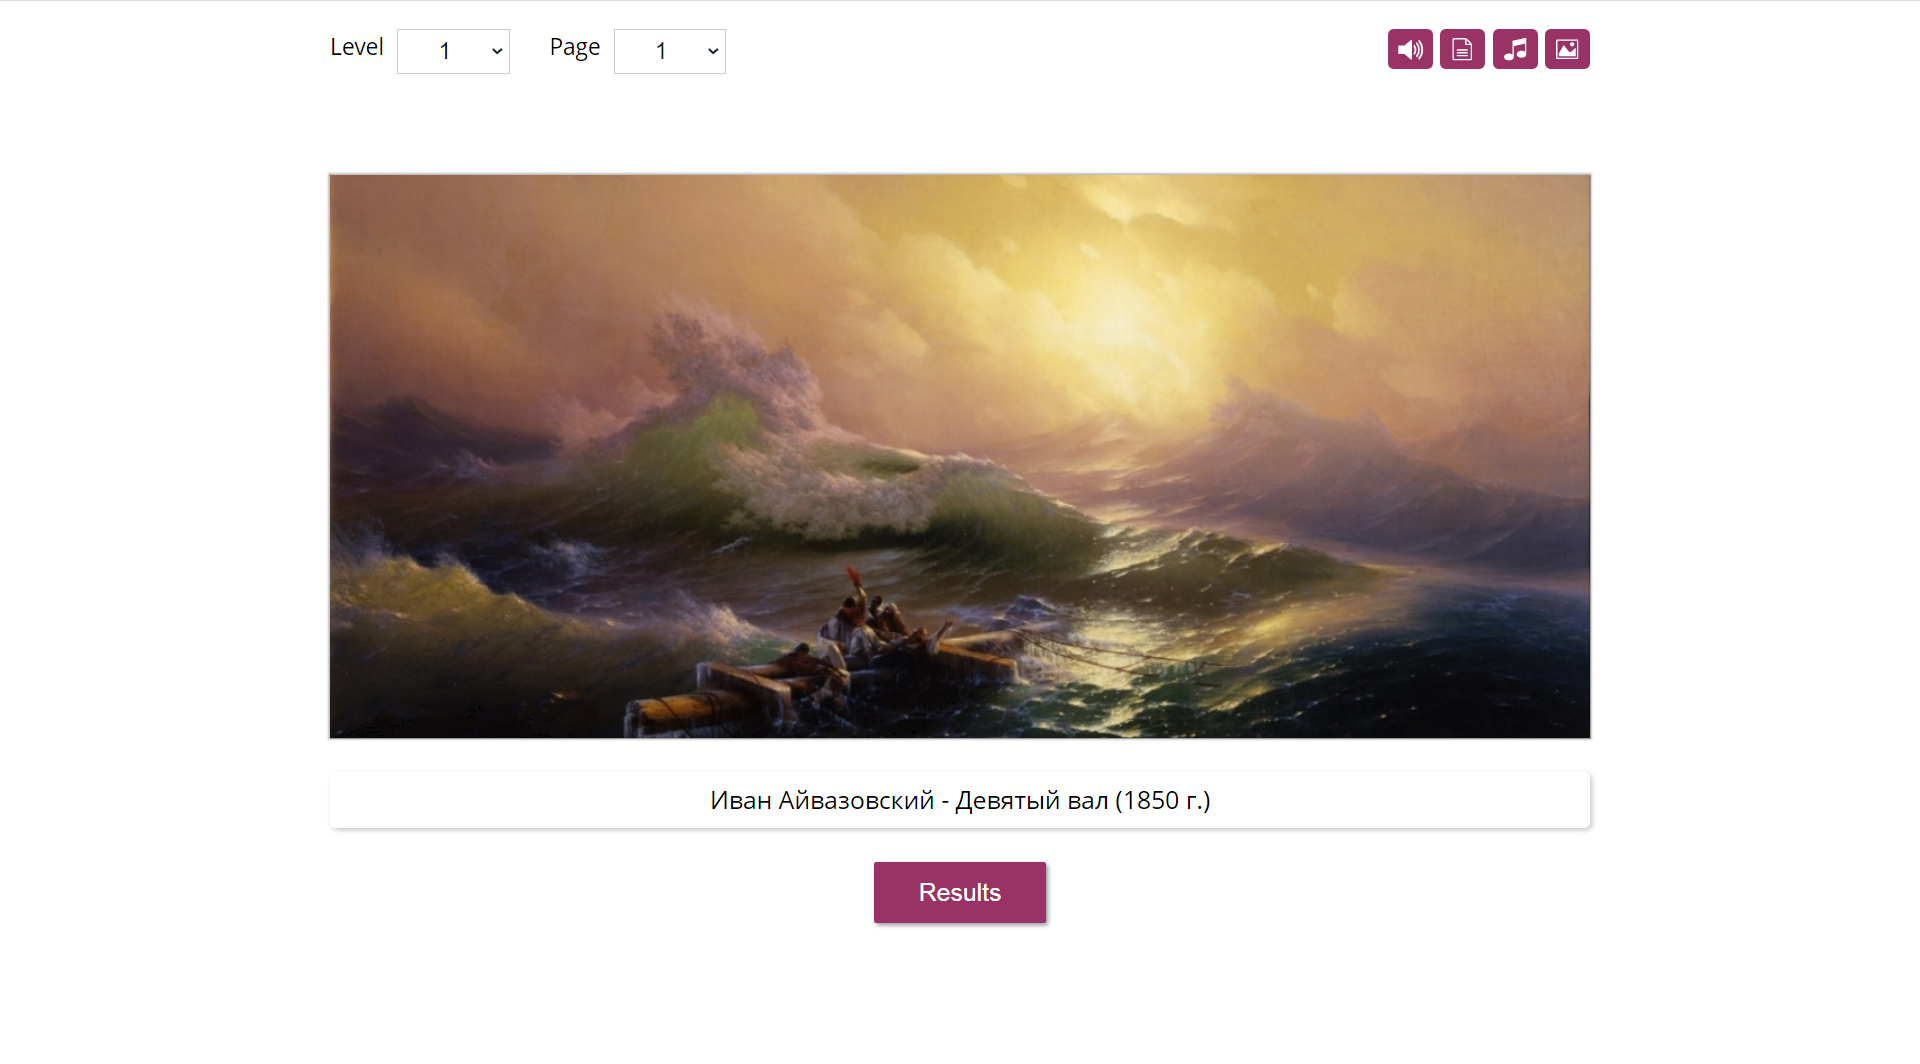
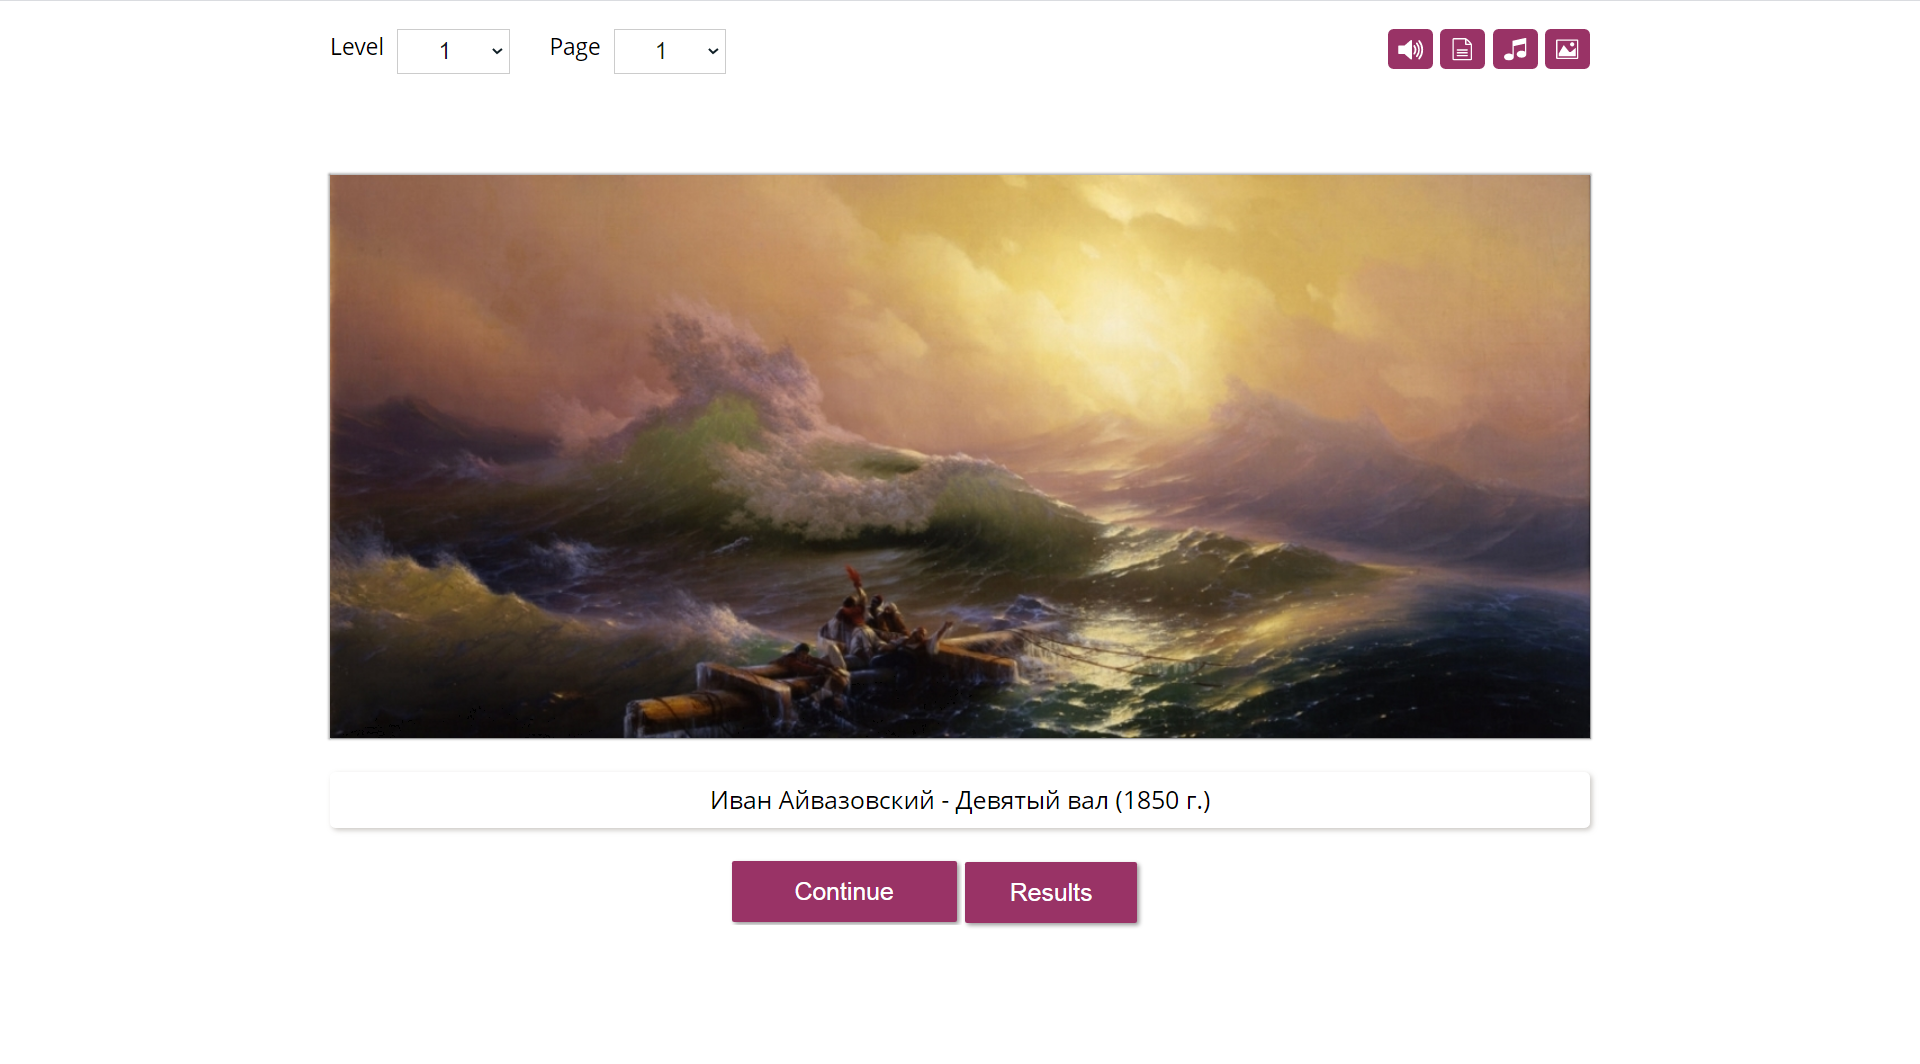
feat: add minor edits

Changed region(s): [[0.375, 0.8064, 0.5938, 0.8684]]

diff --git a/tasks/rslang/english-puzzle.md b/tasks/rslang/english-puzzle.md
@@ -74,12 +74,12 @@ https://lingualeo.com/ru/training/phrasePuzzle
 - при клике по кнопке "I don't know" слова размещаются в правильном порядке, образуя предложение, отображаются неиспользованные подсказки, кнопки "Check" и "I don't know" скрываются, отображается кнопка "Continue". Клик по кнопке "I don't know" работает аналогично клику по кнопке "Не знаю" в прототипе
 - при клике по кнопке "Continue" 
   - если собраны не все предложения раунда, происходит переход к следующему предложению: в поле с исходными данными появляются новые слова, из которых можно составить следующее предложение, в поле для вывода результатов подсвечивается следующая строка, в которой можно собрать предложение
-  - если собраны все десять предложений, границы между карточками и слова на них исчезают, фоновый рисунок карточек становится непрозрачным, пользователь может увидеть картину, а также краткие сведения о ней: автор, название, год создания. Рядом с кнопкой "Continue" появляется кнопка "Results"
+  - если собраны все десять предложений, границы между карточками и слова на них исчезают, фоновый рисунок карточек становится непрозрачным, пользователь может увидеть картину, а также краткие сведения о ней: автор, название, год создания. Рядом с кнопкой "Continue" появляется кнопка "Results". Если правильно собраны все десять предложений, при клике по кнопке "Continue" происходит переход к следующему раунду игры.
   
 ![screenshot](../images/english-puzzle3.png)
 
 - при клике по кнопке "Results" отображается страница статистики. В разделе статистики "I know" находятся предложения, которые пользователь сумел собрать правильно, вне зависимости от количества попыток и используемых подсказок, в разделе "I don't know" - предложения, которые пользователь открыл кликом по одноимённой кнопке
-- на странице статистики есть кнопки "Continue", при клике по ней открывается следующий раунд игры, и Statistic, при клике по которой открываются результаты ранее сыгранных игр
+- на странице статистики есть кнопки "Continue", при клике по ней происходит переход к следующему раунду игры, и "Statistic", при клике по которой открываются результаты ранее сыгранных игр
 
 ![screenshot](../images/english-puzzle4.png)
 
